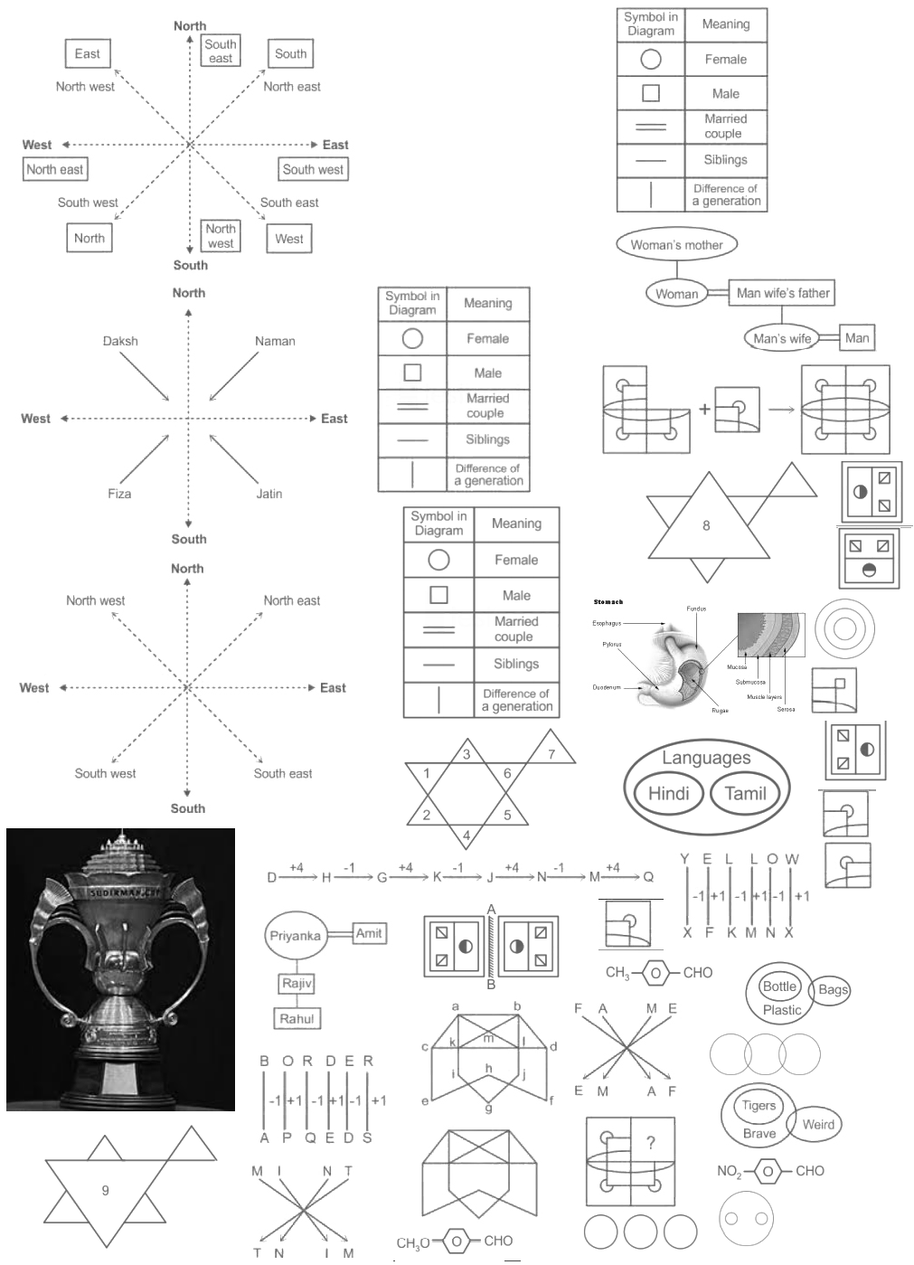
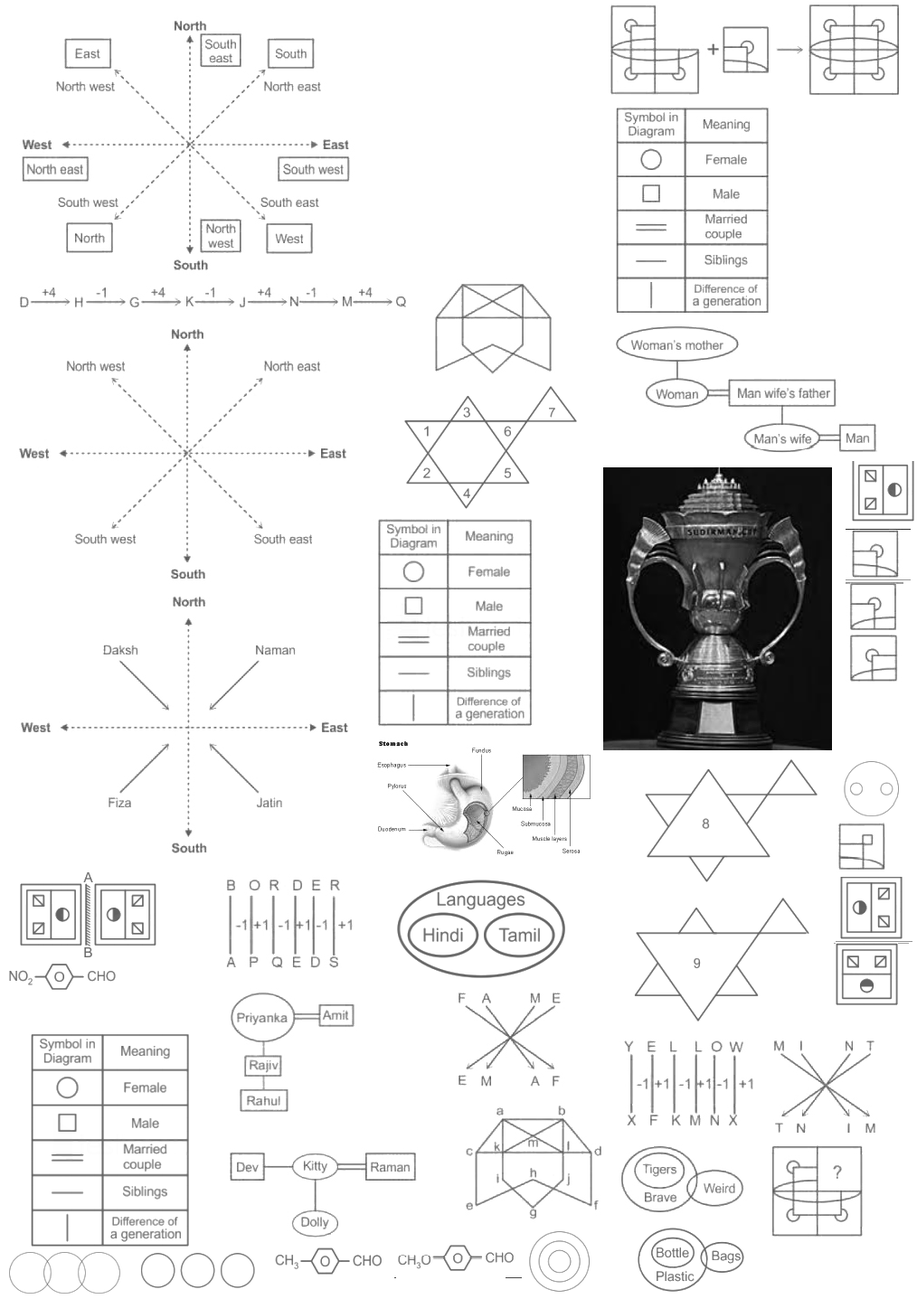
Fixed.

diff --git a/img/railway/groupd/model/rrbgdmod11.css b/img/railway/groupd/model/rrbgdmod11.css
@@ -7,122 +7,125 @@ Responsive: <div class="yourspritesname"></div>
 */
 
 
+.rrb_gb_mp_1_8sol2 {max-width:258px; max-height:131px; }
+.rrb_gb_mp_1_8sol2::after {content: '\00a0';display: inline-block; width:258px; height:131px; background-position: 31.48148148148148% 95.25267993874425%;background-size: 393.0232558139535% 1096.9465648854962%;background-image: url(rrbgdmod11.png);padding: 0; }
+div.rrb_gb_mp_1_8sol2::after {max-width:258px; width:100%;height:0;padding: 0 0 50.775193798449614% 0;}
 .rrb_gd_mp_1_15sol2 {max-width:171px; max-height:158px; }
-.rrb_gd_mp_1_15sol2::after {content: '\00a0';display: inline-block; width:171px; height:158px; background-position: 32.73809523809524% 80.09669621273167%;background-size: 591.2280701754386% 885.4430379746835%;background-image: url(rrbgdmod11.png);padding: 0; }
+.rrb_gd_mp_1_15sol2::after {content: '\00a0';display: inline-block; width:171px; height:158px; background-position: 28.23250296559905% 84.83189992181391%;background-size: 592.9824561403509% 909.493670886076%;background-image: url(rrbgdmod11.png);padding: 0; }
 div.rrb_gd_mp_1_15sol2::after {max-width:171px; width:100%;height:0;padding: 0 0 92.39766081871345% 0;}
 .rrb_gd_mp_1_16sol1 {max-width:410px; max-height:291px; }
-.rrb_gd_mp_1_16sol1::after {content: '\00a0';display: inline-block; width:410px; height:291px; background-position: 0.16638935108153077% 55.68592057761733%;background-size: 246.58536585365854% 480.7560137457045%;background-image: url(rrbgdmod11.png);padding: 0; }
+.rrb_gd_mp_1_16sol1::after {content: '\00a0';display: inline-block; width:410px; height:291px; background-position: 0.16556291390728478% 31.239092495637%;background-size: 247.3170731707317% 493.8144329896907%;background-image: url(rrbgdmod11.png);padding: 0; }
 div.rrb_gd_mp_1_16sol1::after {max-width:410px; width:100%;height:0;padding: 0 0 70.97560975609755% 0;}
 .rrb_gd_mp_1_16sol2 {max-width:664px; max-height:306px; }
-.rrb_gd_mp_1_16sol2::after {content: '\00a0';display: inline-block; width:664px; height:306px; background-position: 0.2881844380403458% 0.09149130832570906%;background-size: 152.25903614457832% 457.18954248366015%;background-image: url(rrbgdmod11.png);padding: 0; }
+.rrb_gd_mp_1_16sol2::after {content: '\00a0';display: inline-block; width:664px; height:306px; background-position: 0.2857142857142857% 0.08841732979664015%;background-size: 152.710843373494% 469.6078431372549%;background-image: url(rrbgdmod11.png);padding: 0; }
 div.rrb_gd_mp_1_16sol2::after {max-width:664px; width:100%;height:0;padding: 0 0 46.08433734939759% 0;}
 .rrb_gd_mp_1_281ans {max-width:248px; max-height:143px; }
-.rrb_gd_mp_1_281ans::after {content: '\00a0';display: inline-block; width:248px; height:143px; background-position: 53.99737876802097% 63.69426751592356%;background-size: 407.66129032258067% 978.3216783216783%;background-image: url(rrbgdmod11.png);padding: 0; }
+.rrb_gd_mp_1_281ans::after {content: '\00a0';display: inline-block; width:248px; height:143px; background-position: 53.78590078328982% 32.61205564142195%;background-size: 408.8709677419355% 1004.8951048951049%;background-image: url(rrbgdmod11.png);padding: 0; }
 div.rrb_gd_mp_1_281ans::after {max-width:248px; width:100%;height:0;padding: 0 0 57.66129032258065% 0;}
 .rrb_gd_mp_1_282ans {max-width:267px; max-height:147px; }
-.rrb_gd_mp_1_282ans::after {content: '\00a0';display: inline-block; width:267px; height:147px; background-position: 88.30645161290323% 40.73482428115016%;background-size: 378.65168539325845% 951.7006802721088%;background-image: url(rrbgdmod11.png);padding: 0; }
+.rrb_gd_mp_1_282ans::after {content: '\00a0';display: inline-block; width:267px; height:147px; background-position: 87.81793842034806% 65.11627906976744%;background-size: 379.7752808988764% 977.5510204081633%;background-image: url(rrbgdmod11.png);padding: 0; }
 div.rrb_gd_mp_1_282ans::after {max-width:267px; width:100%;height:0;padding: 0 0 55.056179775280896% 0;}
 .rrb_gd_mp_1_283ans {max-width:266px; max-height:152px; }
-.rrb_gd_mp_1_283ans::after {content: '\00a0';display: inline-block; width:266px; height:152px; background-position: 0.1342281879194631% 99.35846030473135%;background-size: 380.0751879699248% 920.3947368421053%;background-image: url(rrbgdmod11.png);padding: 0; }
+.rrb_gd_mp_1_283ans::after {content: '\00a0';display: inline-block; width:266px; height:152px; background-position: 87.56684491978609% 76.88715953307393%;background-size: 381.203007518797% 945.3947368421053%;background-image: url(rrbgdmod11.png);padding: 0; }
 div.rrb_gd_mp_1_283ans::after {max-width:266px; width:100%;height:0;padding: 0 0 57.142857142857146% 0;}
 .rrb_gd_mp_1_32ans {max-width:214px; max-height:106px; }
-.rrb_gd_mp_1_32ans::after {content: '\00a0';display: inline-block; width:214px; height:106px; background-position: 56.0853199498118% 76.87548337200309%;background-size: 472.4299065420561% 1319.811320754717%;background-image: url(rrbgdmod11.png);padding: 0; }
+.rrb_gd_mp_1_32ans::after {content: '\00a0';display: inline-block; width:214px; height:106px; background-position: 0.125% 72.0510894064613%;background-size: 473.8317757009346% 1355.6603773584907%;background-image: url(rrbgdmod11.png);padding: 0; }
 div.rrb_gd_mp_1_32ans::after {max-width:214px; width:100%;height:0;padding: 0 0 49.532710280373834% 0;}
 .rrb_gd_mp_1_32b {max-width:85px; max-height:72px; }
-.rrb_gd_mp_1_32b::after {content: '\00a0';display: inline-block; width:85px; height:72px; background-position: 99.89200863930886% 38.43255463451394%;background-size: 1189.4117647058824% 1943.0555555555557%;background-image: url(rrbgdmod11.png);padding: 0; }
+.rrb_gd_mp_1_32b::after {content: '\00a0';display: inline-block; width:85px; height:72px; background-position: 99.46178686759957% 71.06227106227107%;background-size: 1192.9411764705883% 1995.8333333333333%;background-image: url(rrbgdmod11.png);padding: 0; }
 div.rrb_gd_mp_1_32b::after {max-width:85px; width:100%;height:0;padding: 0 0 84.70588235294117% 0;}
 .rrb_gd_mp_1_32c {max-width:83px; max-height:75px; }
-.rrb_gd_mp_1_32c::after {content: '\00a0';display: inline-block; width:83px; height:75px; background-position: 99.67672413793103% 44.03323262839879%;background-size: 1218.0722891566265% 1865.3333333333333%;background-image: url(rrbgdmod11.png);padding: 0; }
+.rrb_gd_mp_1_32c::after {content: '\00a0';display: inline-block; width:83px; height:75px; background-position: 99.03329752953813% 76.57856093979441%;background-size: 1221.686746987952% 1916%;background-image: url(rrbgdmod11.png);padding: 0; }
 div.rrb_gd_mp_1_32c::after {max-width:83px; width:100%;height:0;padding: 0 0 90.36144578313252% 0;}
 .rrb_gd_mp_1_32d {max-width:78px; max-height:74px; }
-.rrb_gd_mp_1_32d::after {content: '\00a0';display: inline-block; width:78px; height:74px; background-position: 96.9989281886388% 60.15094339622642%;background-size: 1296.1538461538462% 1890.5405405405406%;background-image: url(rrbgdmod11.png);padding: 0; }
+.rrb_gd_mp_1_32d::after {content: '\00a0';display: inline-block; width:78px; height:74px; background-position: 99.8931623931624% 37.41746148202495%;background-size: 1300% 1941.8918918918919%;background-image: url(rrbgdmod11.png);padding: 0; }
 div.rrb_gd_mp_1_32d::after {max-width:78px; width:100%;height:0;padding: 0 0 94.87179487179488% 0;}
 .rrb_gd_mp_1_39aqusn {max-width:139px; max-height:43px; }
-.rrb_gd_mp_1_39aqusn::after {content: '\00a0';display: inline-block; width:139px; height:43px; background-position: 75.91743119266054% 77.94985250737463%;background-size: 727.3381294964029% 3253.4883720930234%;background-image: url(rrbgdmod11.png);padding: 0; }
+.rrb_gd_mp_1_39aqusn::after {content: '\00a0';display: inline-block; width:139px; height:43px; background-position: 33.82857142857143% 98.70875179340028%;background-size: 729.4964028776978% 3341.860465116279%;background-image: url(rrbgdmod11.png);padding: 0; }
 div.rrb_gd_mp_1_39aqusn::after {max-width:139px; width:100%;height:0;padding: 0 0 30.93525179856115% 0;}
 .rrb_gd_mp_1_39bqusn {max-width:141px; max-height:38px; }
-.rrb_gd_mp_1_39bqusn::after {content: '\00a0';display: inline-block; width:141px; height:38px; background-position: 50% 99.70609845701689%;background-size: 717.0212765957447% 3681.5789473684213%;background-image: url(rrbgdmod11.png);padding: 0; }
+.rrb_gd_mp_1_39bqusn::after {content: '\00a0';display: inline-block; width:141px; height:38px; background-position: 49.942726231386025% 98.35596854896355%;background-size: 719.1489361702128% 3781.5789473684213%;background-image: url(rrbgdmod11.png);padding: 0; }
 div.rrb_gd_mp_1_39bqusn::after {max-width:141px; width:100%;height:0;padding: 0 0 26.95035460992908% 0;}
 .rrb_gd_mp_1_39cqusn {max-width:140px; max-height:33px; }
-.rrb_gd_mp_1_39cqusn::after {content: '\00a0';display: inline-block; width:140px; height:33px; background-position: 90.12629161882893% 93.77745241581259%;background-size: 722.1428571428571% 4239.393939393939%;background-image: url(rrbgdmod11.png);padding: 0; }
+.rrb_gd_mp_1_39cqusn::after {content: '\00a0';display: inline-block; width:140px; height:33px; background-position: 0.11441647597254005% 75.92592592592592%;background-size: 724.2857142857143% 4354.545454545455%;background-image: url(rrbgdmod11.png);padding: 0; }
 div.rrb_gd_mp_1_39cqusn::after {max-width:140px; width:100%;height:0;padding: 0 0 23.571428571428573% 0;}
 .rrb_gd_mp_1_48ans {max-width:160px; max-height:84px; }
-.rrb_gd_mp_1_48ans::after {content: '\00a0';display: inline-block; width:160px; height:84px; background-position: 94.24206815511164% 80.38022813688212%;background-size: 631.875% 1665.4761904761904%;background-image: url(rrbgdmod11.png);padding: 0; }
+.rrb_gd_mp_1_48ans::after {content: '\00a0';display: inline-block; width:160px; height:84px; background-position: 79.97658079625293% 99.9260901699926%;background-size: 633.75% 1710.7142857142858%;background-image: url(rrbgdmod11.png);padding: 0; }
 div.rrb_gd_mp_1_48ans::after {max-width:160px; width:100%;height:0;padding: 0 0 52.5% 0;}
 .rrb_gd_mp_1_50ans {max-width:273px; max-height:329px; }
-.rrb_gd_mp_1_50ans::after {content: '\00a0';display: inline-block; width:273px; height:329px; background-position: 0.13550135501355012% 84.95327102803738%;background-size: 370.3296703296703% 425.2279635258359%;background-image: url(rrbgdmod11.png);padding: 0; }
+.rrb_gd_mp_1_50ans::after {content: '\00a0';display: inline-block; width:273px; height:329px; background-position: 89.20377867746289% 46.02888086642599%;background-size: 371.42857142857144% 436.7781155015198%;background-image: url(rrbgdmod11.png);padding: 0; }
 div.rrb_gd_mp_1_50ans::after {max-width:273px; width:100%;height:0;padding: 0 0 120.51282051282051% 0;}
 .rrb_gd_mp_1_52ans {max-width:243px; max-height:132px; }
-.rrb_gd_mp_1_52ans::after {content: '\00a0';display: inline-block; width:243px; height:132px; background-position: 86.06770833333333% 63.141278610891874%;background-size: 416.04938271604937% 1059.8484848484848%;background-image: url(rrbgdmod11.png);padding: 0; }
+.rrb_gd_mp_1_52ans::after {content: '\00a0';display: inline-block; width:243px; height:132px; background-position: 53.30739299610895% 73.33333333333333%;background-size: 417.28395061728395% 1088.6363636363637%;background-image: url(rrbgdmod11.png);padding: 0; }
 div.rrb_gd_mp_1_52ans::after {max-width:243px; width:100%;height:0;padding: 0 0 54.32098765432099% 0;}
 .rrb_gd_mp_1_52aqusn {max-width:146px; max-height:46px; }
-.rrb_gd_mp_1_52aqusn::after {content: '\00a0';display: inline-block; width:146px; height:46px; background-position: 73.8728323699422% 99.1130820399113%;background-size: 692.4657534246576% 3041.304347826087%;background-image: url(rrbgdmod11.png);padding: 0; }
+.rrb_gd_mp_1_52aqusn::after {content: '\00a0';display: inline-block; width:146px; height:46px; background-position: 17.16589861751152% 99.49676491732566%;background-size: 694.5205479452055% 3123.913043478261%;background-image: url(rrbgdmod11.png);padding: 0; }
 div.rrb_gd_mp_1_52aqusn::after {max-width:146px; width:100%;height:0;padding: 0 0 31.506849315068493% 0;}
 .rrb_gd_mp_1_52bqusn {max-width:88px; max-height:69px; }
-.rrb_gd_mp_1_52bqusn::after {content: '\00a0';display: inline-block; width:88px; height:69px; background-position: 85.15709642470206% 98.87218045112782%;background-size: 1148.8636363636363% 2027.536231884058%;background-image: url(rrbgdmod11.png);padding: 0; }
+.rrb_gd_mp_1_52bqusn::after {content: '\00a0';display: inline-block; width:88px; height:69px; background-position: 99.78401727861771% 61.40350877192982%;background-size: 1152.2727272727273% 2082.608695652174%;background-image: url(rrbgdmod11.png);padding: 0; }
 div.rrb_gd_mp_1_52bqusn::after {max-width:88px; width:100%;height:0;padding: 0 0 78.4090909090909% 0;}
 .rrb_gd_mp_1_52cqusn {max-width:147px; max-height:51px; }
-.rrb_gd_mp_1_52cqusn::after {content: '\00a0';display: inline-block; width:147px; height:51px; background-position: 89.81481481481481% 84.71810089020771%;background-size: 687.7551020408164% 2743.1372549019607%;background-image: url(rrbgdmod11.png);padding: 0; }
+.rrb_gd_mp_1_52cqusn::after {content: '\00a0';display: inline-block; width:147px; height:51px; background-position: 0.11534025374855825% 99.85569985569985%;background-size: 689.795918367347% 2817.6470588235293%;background-image: url(rrbgdmod11.png);padding: 0; }
 div.rrb_gd_mp_1_52cqusn::after {max-width:147px; width:100%;height:0;padding: 0 0 34.69387755102041% 0;}
 .rrb_gd_mp_1_52dqusn {max-width:104px; max-height:77px; }
-.rrb_gd_mp_1_52dqusn::after {content: '\00a0';display: inline-block; width:104px; height:77px; background-position: 98.56670341786108% 49.84871406959153%;background-size: 972.1153846153846% 1816.8831168831168%;background-image: url(rrbgdmod11.png);padding: 0; }
+.rrb_gd_mp_1_52dqusn::after {content: '\00a0';display: inline-block; width:104px; height:77px; background-position: 63.51648351648352% 99.92647058823529%;background-size: 975% 1866.2337662337663%;background-image: url(rrbgdmod11.png);padding: 0; }
 div.rrb_gd_mp_1_52dqusn::after {max-width:104px; width:100%;height:0;padding: 0 0 74.03846153846153% 0;}
 .rrb_gd_mp_1_63sol1 {max-width:149px; max-height:126px; }
-.rrb_gd_mp_1_63sol1::after {content: '\00a0';display: inline-block; width:149px; height:126px; background-position: 72.62180974477958% 86.48860958366065%;background-size: 678.5234899328859% 1110.3174603174602%;background-image: url(rrbgdmod11.png);padding: 0; }
+.rrb_gd_mp_1_63sol1::after {content: '\00a0';display: inline-block; width:149px; height:126px; background-position: 57.456647398843934% 83.14263920671243%;background-size: 680.5369127516778% 1140.4761904761904%;background-image: url(rrbgdmod11.png);padding: 0; }
 div.rrb_gd_mp_1_63sol1::after {max-width:149px; width:100%;height:0;padding: 0 0 84.56375838926175% 0;}
 .rrb_gd_mp_1_63sol2 {max-width:166px; max-height:119px; }
-.rrb_gd_mp_1_63sol2::after {content: '\00a0';display: inline-block; width:166px; height:119px; background-position: 31.715976331360945% 99.921875%;background-size: 609.0361445783133% 1175.6302521008404%;background-image: url(rrbgdmod11.png);padding: 0; }
+.rrb_gd_mp_1_63sol2::after {content: '\00a0';display: inline-block; width:166px; height:119px; background-position: 99.64622641509433% 86.57056145675266%;background-size: 610.843373493976% 1207.563025210084%;background-image: url(rrbgdmod11.png);padding: 0; }
 div.rrb_gd_mp_1_63sol2::after {max-width:166px; width:100%;height:0;padding: 0 0 71.6867469879518% 0;}
 .rrb_gd_mp_1_67sol {max-width:409px; max-height:308px; }
-.rrb_gd_mp_1_67sol::after {content: '\00a0';display: inline-block; width:409px; height:308px; background-position: 0.16611295681063123% 28.230980751604033%;background-size: 247.1882640586797% 454.2207792207792%;background-image: url(rrbgdmod11.png);padding: 0; }
+.rrb_gd_mp_1_67sol::after {content: '\00a0';display: inline-block; width:409px; height:308px; background-position: 0.1652892561983471% 57.57307351638618%;background-size: 247.92176039119803% 466.5584415584416%;background-image: url(rrbgdmod11.png);padding: 0; }
 div.rrb_gd_mp_1_67sol::after {max-width:409px; width:100%;height:0;padding: 0 0 75.30562347188264% 0;}
 .rrb_gd_mp_1_75sol {max-width:158px; max-height:86px; }
-.rrb_gd_mp_1_75sol::after {content: '\00a0';display: inline-block; width:158px; height:86px; background-position: 92.02813599062134% 90.93678598629094%;background-size: 639.873417721519% 1626.7441860465117%;background-image: url(rrbgdmod11.png);padding: 0; }
+.rrb_gd_mp_1_75sol::after {content: '\00a0';display: inline-block; width:158px; height:86px; background-position: 78.85514018691589% 93.63434492968172%;background-size: 641.7721518987341% 1670.9302325581396%;background-image: url(rrbgdmod11.png);padding: 0; }
 div.rrb_gd_mp_1_75sol::after {max-width:158px; width:100%;height:0;padding: 0 0 54.43037974683544% 0;}
 .rrb_gd_mp_1_81ans {max-width:236px; max-height:242px; }
-.rrb_gd_mp_1_81ans::after {content: '\00a0';display: inline-block; width:236px; height:242px; background-position: 53.16129032258065% 48.14174589455488%;background-size: 428.3898305084746% 578.099173553719%;background-image: url(rrbgdmod11.png);padding: 0; }
+.rrb_gd_mp_1_81ans::after {content: '\00a0';display: inline-block; width:236px; height:242px; background-position: 0.12853470437017994% 95.48117154811716%;background-size: 429.66101694915255% 593.801652892562%;background-image: url(rrbgdmod11.png);padding: 0; }
 div.rrb_gd_mp_1_81ans::after {max-width:236px; width:100%;height:0;padding: 0 0 102.54237288135593% 0;}
 .rrb_gd_mp_1_85sol {max-width:461px; max-height:49px; }
-.rrb_gd_mp_1_85sol::after {content: '\00a0';display: inline-block; width:461px; height:49px; background-position: 50% 69.92592592592592%;background-size: 219.3058568329718% 2855.1020408163267%;background-image: url(rrbgdmod11.png);padding: 0; }
+.rrb_gd_mp_1_85sol::after {content: '\00a0';display: inline-block; width:461px; height:49px; background-position: 0.18083182640144665% 22.19020172910663%;background-size: 219.95661605206072% 2932.6530612244896%;background-image: url(rrbgdmod11.png);padding: 0; }
 div.rrb_gd_mp_1_85sol::after {max-width:461px; width:100%;height:0;padding: 0 0 10.629067245119305% 0;}
 .rrb_gd_mp_1_88 {max-width:145px; max-height:112px; }
-.rrb_gd_mp_1_88::after {content: '\00a0';display: inline-block; width:145px; height:112px; background-position: 73.78752886836028% 95.41569541569541%;background-size: 697.2413793103449% 1249.107142857143%;background-image: url(rrbgdmod11.png);padding: 0; }
+.rrb_gd_mp_1_88::after {content: '\00a0';display: inline-block; width:145px; height:112px; background-position: 97.23820483314154% 95.16981132075472%;background-size: 699.3103448275862% 1283.0357142857142%;background-image: url(rrbgdmod11.png);padding: 0; }
 div.rrb_gd_mp_1_88::after {max-width:145px; width:100%;height:0;padding: 0 0 77.24137931034483% 0;}
 .rrb_gd_mp_1_88a {max-width:72px; max-height:57px; }
-.rrb_gd_mp_1_88a::after {content: '\00a0';display: inline-block; width:72px; height:57px; background-position: 70.50053248136315% 74.06855439642325%;background-size: 1404.1666666666667% 2454.3859649122805%;background-image: url(rrbgdmod11.png);padding: 0; }
+.rrb_gd_mp_1_88a::after {content: '\00a0';display: inline-block; width:72px; height:57px; background-position: 99.25690021231422% 42.391304347826086%;background-size: 1408.3333333333333% 2521.0526315789475%;background-image: url(rrbgdmod11.png);padding: 0; }
 div.rrb_gd_mp_1_88a::after {max-width:72px; width:100%;height:0;padding: 0 0 79.16666666666667% 0;}
 .rrb_gd_mp_1_88b {max-width:64px; max-height:56px; }
-.rrb_gd_mp_1_88b::after {content: '\00a0';display: inline-block; width:64px; height:56px; background-position: 95.5649419218585% 64.92926284437826%;background-size: 1579.6875% 2498.214285714286%;background-image: url(rrbgdmod11.png);padding: 0; }
+.rrb_gd_mp_1_88b::after {content: '\00a0';display: inline-block; width:64px; height:56px; background-position: 98.42105263157895% 46.560463432295435%;background-size: 1584.375% 2566.0714285714284%;background-image: url(rrbgdmod11.png);padding: 0; }
 div.rrb_gd_mp_1_88b::after {max-width:64px; width:100%;height:0;padding: 0 0 87.5% 0;}
 .rrb_gd_mp_1_88c {max-width:62px; max-height:55px; }
-.rrb_gd_mp_1_88c::after {content: '\00a0';display: inline-block; width:62px; height:55px; background-position: 95.57428872497366% 69.12202380952381%;background-size: 1630.6451612903227% 2543.6363636363635%;background-image: url(rrbgdmod11.png);padding: 0; }
+.rrb_gd_mp_1_88c::after {content: '\00a0';display: inline-block; width:62px; height:55px; background-position: 98.21428571428571% 50.65123010130246%;background-size: 1635.483870967742% 2612.7272727272725%;background-image: url(rrbgdmod11.png);padding: 0; }
 div.rrb_gd_mp_1_88c::after {max-width:62px; width:100%;height:0;padding: 0 0 88.70967741935483% 0;}
 .rrb_gd_mp_1_88d {max-width:87px; max-height:59px; }
-.rrb_gd_mp_1_88d::after {content: '\00a0';display: inline-block; width:87px; height:59px; background-position: 96.75324675324676% 55%;background-size: 1162.0689655172414% 2371.186440677966%;background-image: url(rrbgdmod11.png);padding: 0; }
+.rrb_gd_mp_1_88d::after {content: '\00a0';display: inline-block; width:87px; height:59px; background-position: 99.67637540453075% 66.0377358490566%;background-size: 1165.5172413793102% 2435.593220338983%;background-image: url(rrbgdmod11.png);padding: 0; }
 div.rrb_gd_mp_1_88d::after {max-width:87px; width:100%;height:0;padding: 0 0 67.816091954023% 0;}
 .rrb_gd_mp_1_88sol {max-width:346px; max-height:110px; }
-.rrb_gd_mp_1_88sol::after {content: '\00a0';display: inline-block; width:346px; height:110px; background-position: 98.796992481203% 30.954228083785882%;background-size: 292.1965317919075% 1271.8181818181818%;background-image: url(rrbgdmod11.png);padding: 0; }
+.rrb_gd_mp_1_88sol::after {content: '\00a0';display: inline-block; width:346px; height:110px; background-position: 99.7005988023952% 0.07535795026375283%;background-size: 293.0635838150289% 1306.3636363636363%;background-image: url(rrbgdmod11.png);padding: 0; }
 div.rrb_gd_mp_1_88sol::after {max-width:346px; width:100%;height:0;padding: 0 0 31.791907514450866% 0;}
 .rrb_gd_mp_1_8sol1 {max-width:245px; max-height:248px; }
-.rrb_gd_mp_1_8sol1::after {content: '\00a0';display: inline-block; width:245px; height:248px; background-position: 53.655352480417754% 26.75933970460469%;background-size: 412.6530612244898% 564.1129032258065%;background-image: url(rrbgdmod11.png);padding: 0; }
+.rrb_gd_mp_1_8sol1::after {content: '\00a0';display: inline-block; width:245px; height:248px; background-position: 53.57607282184655% 47.60302775441548%;background-size: 413.8775510204082% 579.4354838709677%;background-image: url(rrbgdmod11.png);padding: 0; }
 div.rrb_gd_mp_1_8sol1::after {max-width:245px; width:100%;height:0;padding: 0 0 101.22448979591837% 0;}
 .rrb_gd_mp_1_91sol {max-width:344px; max-height:397px; }
-.rrb_gd_mp_1_91sol::after {content: '\00a0';display: inline-block; width:344px; height:397px; background-position: 99.85007496251875% 0.0998003992015968%;background-size: 293.8953488372093% 352.39294710327454%;background-image: url(rrbgdmod11.png);padding: 0; }
+.rrb_gd_mp_1_91sol::after {content: '\00a0';display: inline-block; width:344px; height:397px; background-position: 99.40298507462687% 10.76923076923077%;background-size: 294.7674418604651% 361.9647355163728%;background-image: url(rrbgdmod11.png);padding: 0; }
 div.rrb_gd_mp_1_91sol::after {max-width:344px; width:100%;height:0;padding: 0 0 115.40697674418605% 0;}
 .rrb_gd_mp_1_93sol {max-width:244px; max-height:141px; }
-.rrb_gd_mp_1_93sol::after {content: '\00a0';display: inline-block; width:244px; height:141px; background-position: 84.61538461538461% 52.30524642289348%;background-size: 414.344262295082% 992.1985815602837%;background-image: url(rrbgdmod11.png);padding: 0; }
+.rrb_gd_mp_1_93sol::after {content: '\00a0';display: inline-block; width:244px; height:141px; background-position: 53.37662337662338% 62.885802469135804%;background-size: 415.57377049180326% 1019.1489361702128%;background-image: url(rrbgdmod11.png);padding: 0; }
 div.rrb_gd_mp_1_93sol::after {max-width:244px; width:100%;height:0;padding: 0 0 57.78688524590164% 0;}
 .rrb_gd_mp_1_98sol1 {max-width:169px; max-height:123px; }
-.rrb_gd_mp_1_98sol1::after {content: '\00a0';display: inline-block; width:169px; height:123px; background-position: 87.52969121140143% 73.11912225705329%;background-size: 598.2248520710059% 1137.39837398374%;background-image: url(rrbgdmod11.png);padding: 0; }
+.rrb_gd_mp_1_98sol1::after {content: '\00a0';display: inline-block; width:169px; height:123px; background-position: 79.88165680473372% 86.83409436834094%;background-size: 600% 1168.2926829268292%;background-image: url(rrbgdmod11.png);padding: 0; }
 div.rrb_gd_mp_1_98sol1::after {max-width:169px; width:100%;height:0;padding: 0 0 72.7810650887574% 0;}
 .rrb_gd_mp_1_98sol2 {max-width:172px; max-height:125px; }
-.rrb_gd_mp_1_98sol2::after {content: '\00a0';display: inline-block; width:172px; height:125px; background-position: 32.777115613825984% 90.50235478806907%;background-size: 587.7906976744187% 1119.2%;background-image: url(rrbgdmod11.png);padding: 0; }
+.rrb_gd_mp_1_98sol2::after {content: '\00a0';display: inline-block; width:172px; height:125px; background-position: 28.26603325415677% 73.09451219512195%;background-size: 589.5348837209302% 1149.6%;background-image: url(rrbgdmod11.png);padding: 0; }
 div.rrb_gd_mp_1_98sol2::after {max-width:172px; width:100%;height:0;padding: 0 0 72.67441860465117% 0;}
 .rrb_gd_mp_1_99 {max-width:190px; max-height:113px; }
-.rrb_gd_mp_1_99::after {content: '\00a0';display: inline-block; width:190px; height:113px; background-position: 54.56760048721072% 96.65629860031105%;background-size: 532.1052631578947% 1238.0530973451328%;background-image: url(rrbgdmod11.png);padding: 0; }
+.rrb_gd_mp_1_99::after {content: '\00a0';display: inline-block; width:190px; height:113px; background-position: 56.189320388349515% 23.26283987915408%;background-size: 533.6842105263158% 1271.6814159292035%;background-image: url(rrbgdmod11.png);padding: 0; }
 div.rrb_gd_mp_1_99::after {max-width:190px; width:100%;height:0;padding: 0 0 59.473684210526315% 0;}
 .rrb_gd_mp_1_99sol {max-width:177px; max-height:141px; }
-.rrb_gd_mp_1_99sol::after {content: '\00a0';display: inline-block; width:177px; height:141px; background-position: 53.71702637889688% 87.51987281399046%;background-size: 571.1864406779661% 992.1985815602837%;background-image: url(rrbgdmod11.png);padding: 0; }
+.rrb_gd_mp_1_99sol::after {content: '\00a0';display: inline-block; width:177px; height:141px; background-position: 59.37873357228196% 93.90432098765432%;background-size: 572.8813559322034% 1019.1489361702128%;background-image: url(rrbgdmod11.png);padding: 0; }
 div.rrb_gd_mp_1_99sol::after {max-width:177px; width:100%;height:0;padding: 0 0 79.66101694915254% 0;}
 
-/* $TexturePacker:SmartUpdate:441391aa0e4fed4763661214858cb09e:a6783b9a5be10ee62b8840ff5aaa6568:ad0c04308c3b382267367c4de8eb9ed2$ */
+/* $TexturePacker:SmartUpdate:e3665fb6c894099f911955f4aeef70c2:cc55ee1729614222cc9942b90f1eba38:ad0c04308c3b382267367c4de8eb9ed2$ */
